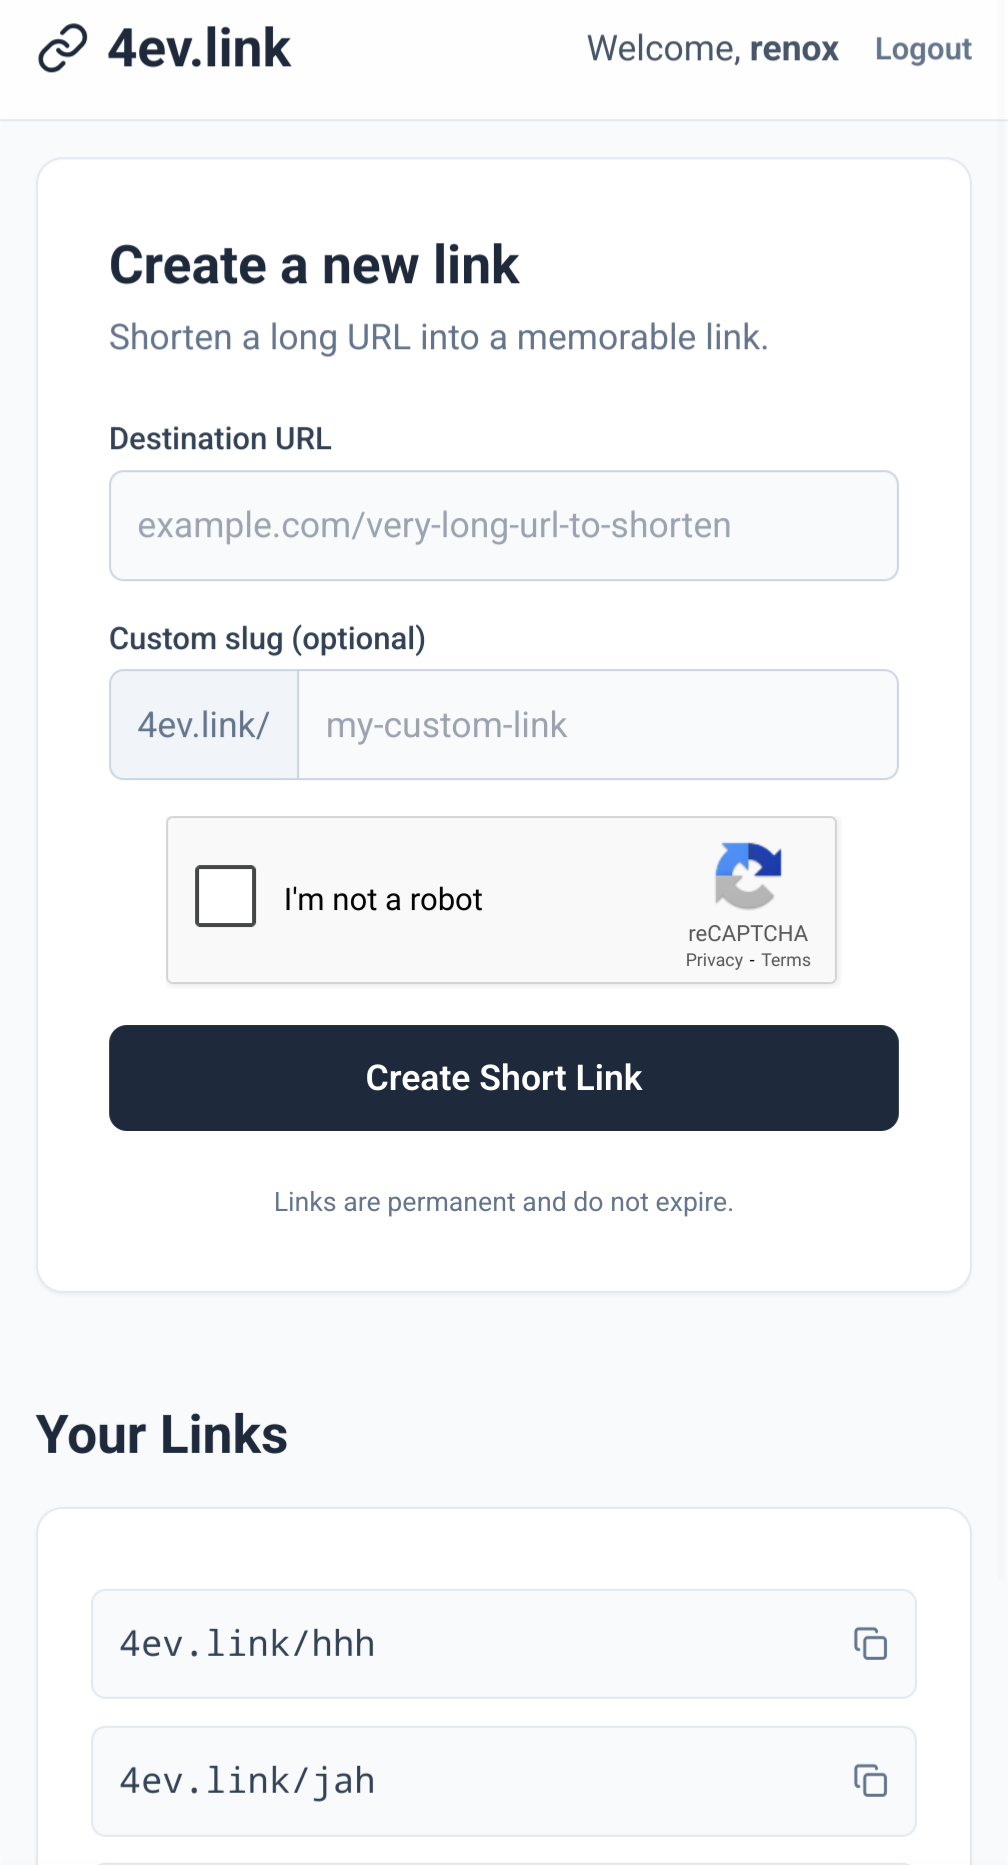
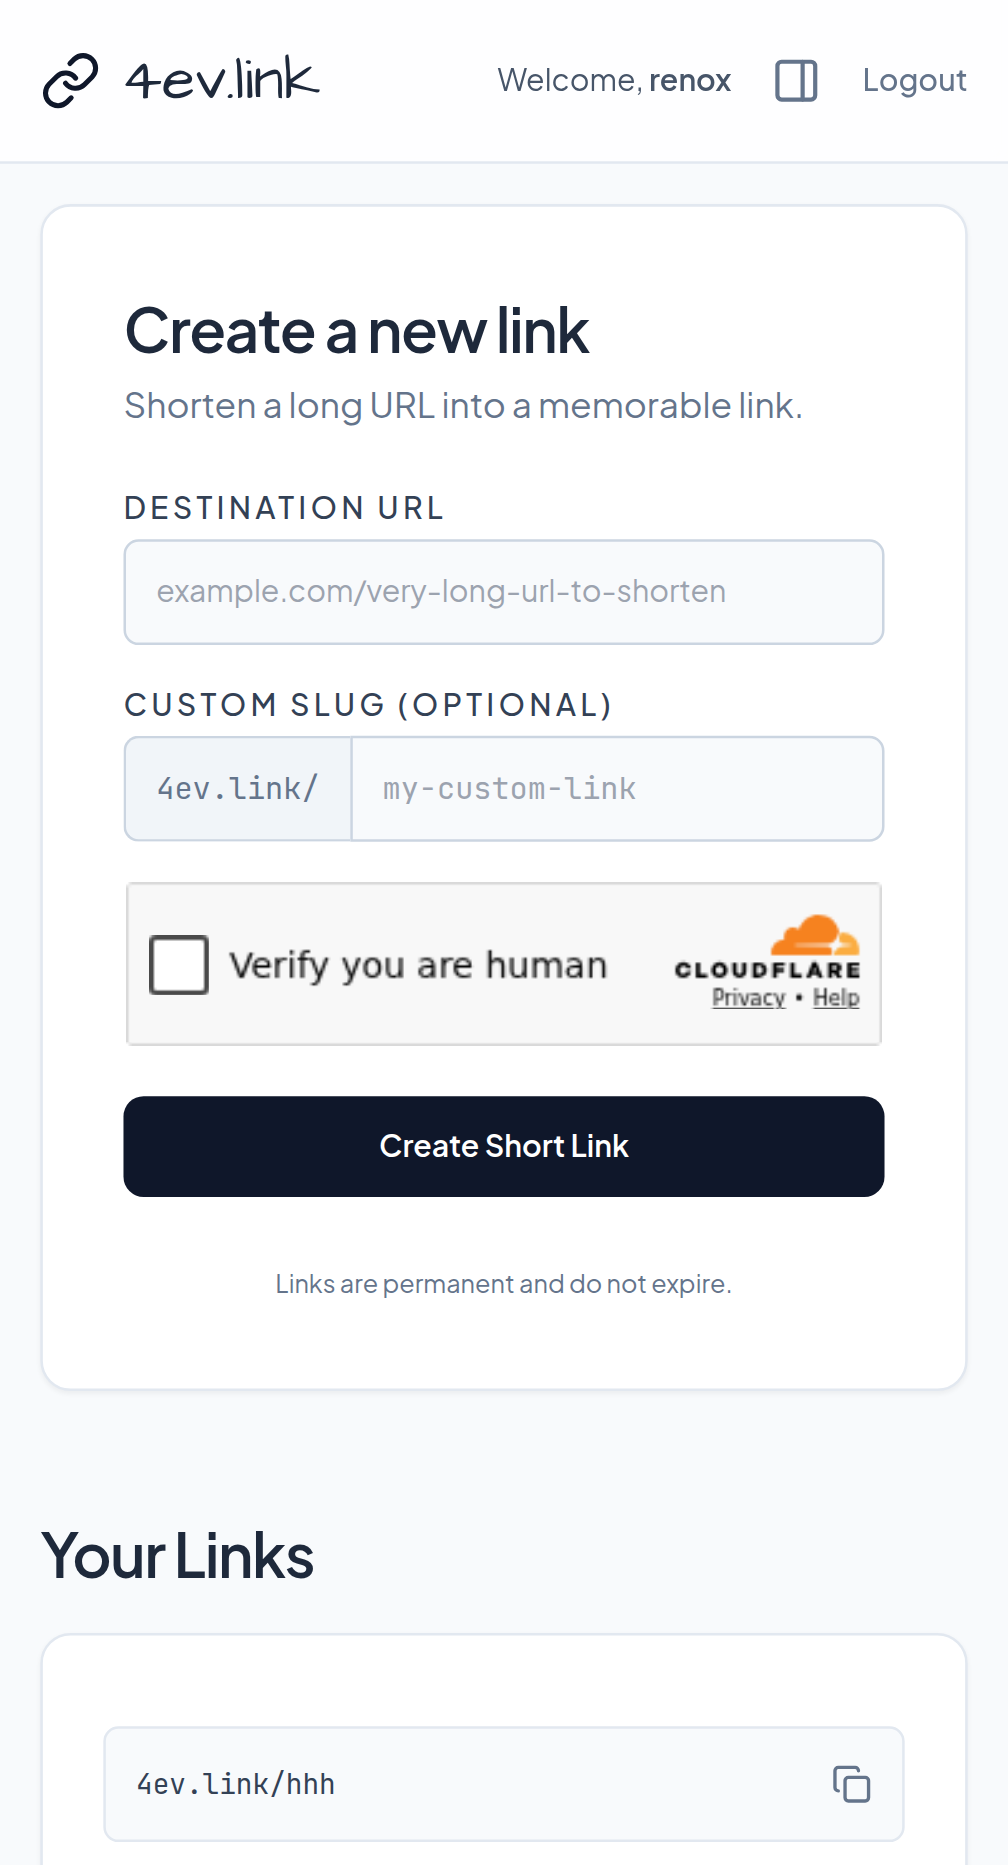
Docs: Replace reCAPTCHA with Turnstile in README and screenshot

diff --git a/docs/README.md b/docs/README.md
@@ -22,13 +22,13 @@ No servers to maintain, no cron jobs, no expiration dates.
 - **Cloudflare Workers** – serve requests at the edge  
 - **D1 (SQLite)** – store user hashes and slug lists  
 - **KV** – key/value lookups for lightning-fast redirects  
-- **reCAPTCHA v2** – stop bots from burning your quota
+- **Cloudflare Turnstile** – stop bots from burning your quota
 
 
 ## Security notes
 
 - Client-side scrypt stretching (N=16384, r=8, p=1, 32 B) before the request ever leaves the browser  
-- All write endpoints require a fresh reCAPTCHA token  
+- All write and auth endpoints require a fresh Turnstile token  
 - Reserved-word blacklist prevents hijacking of paths such as api, dash, admin, etc
 
 ## Limits on Cloudflare free tier
